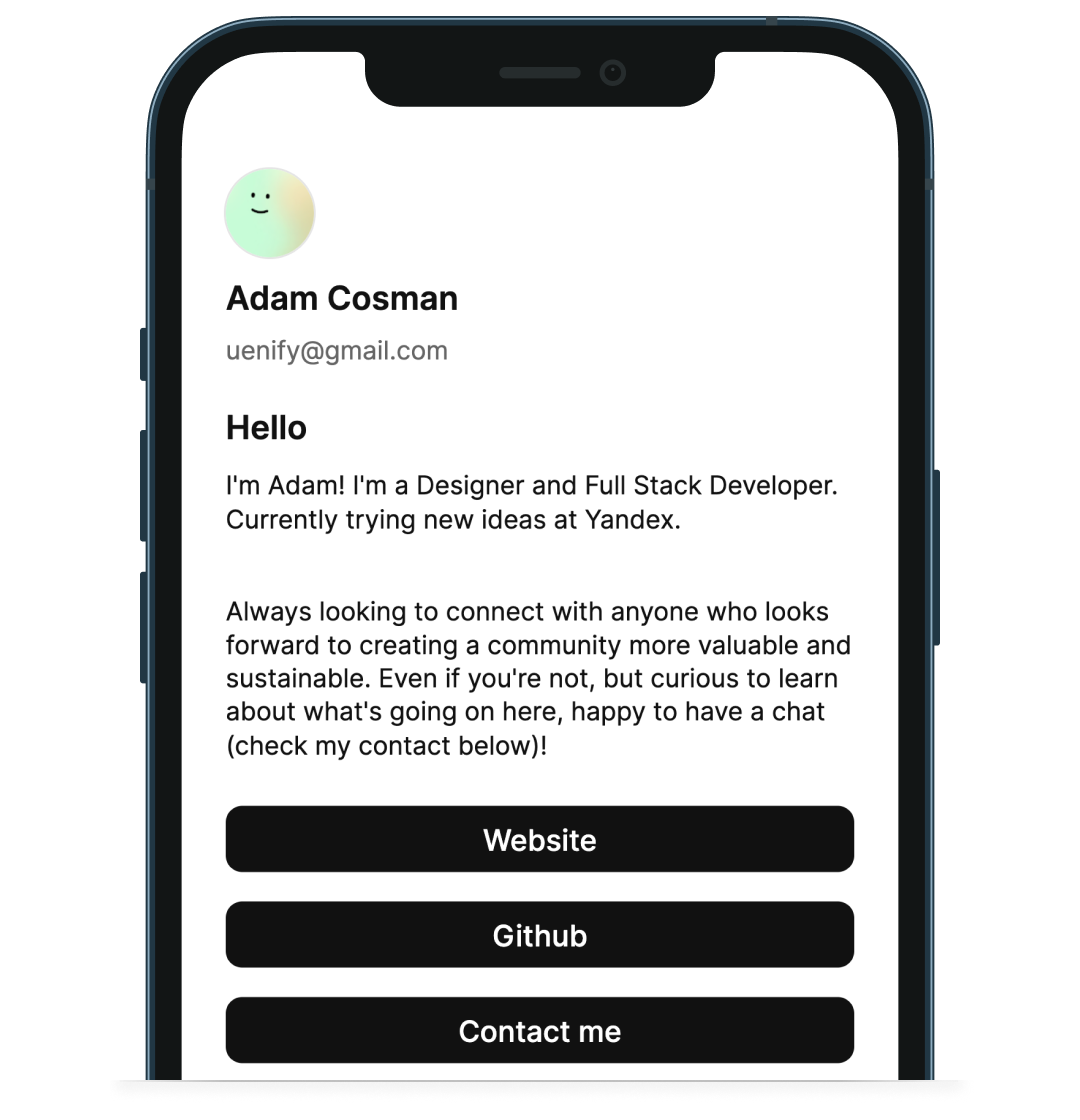
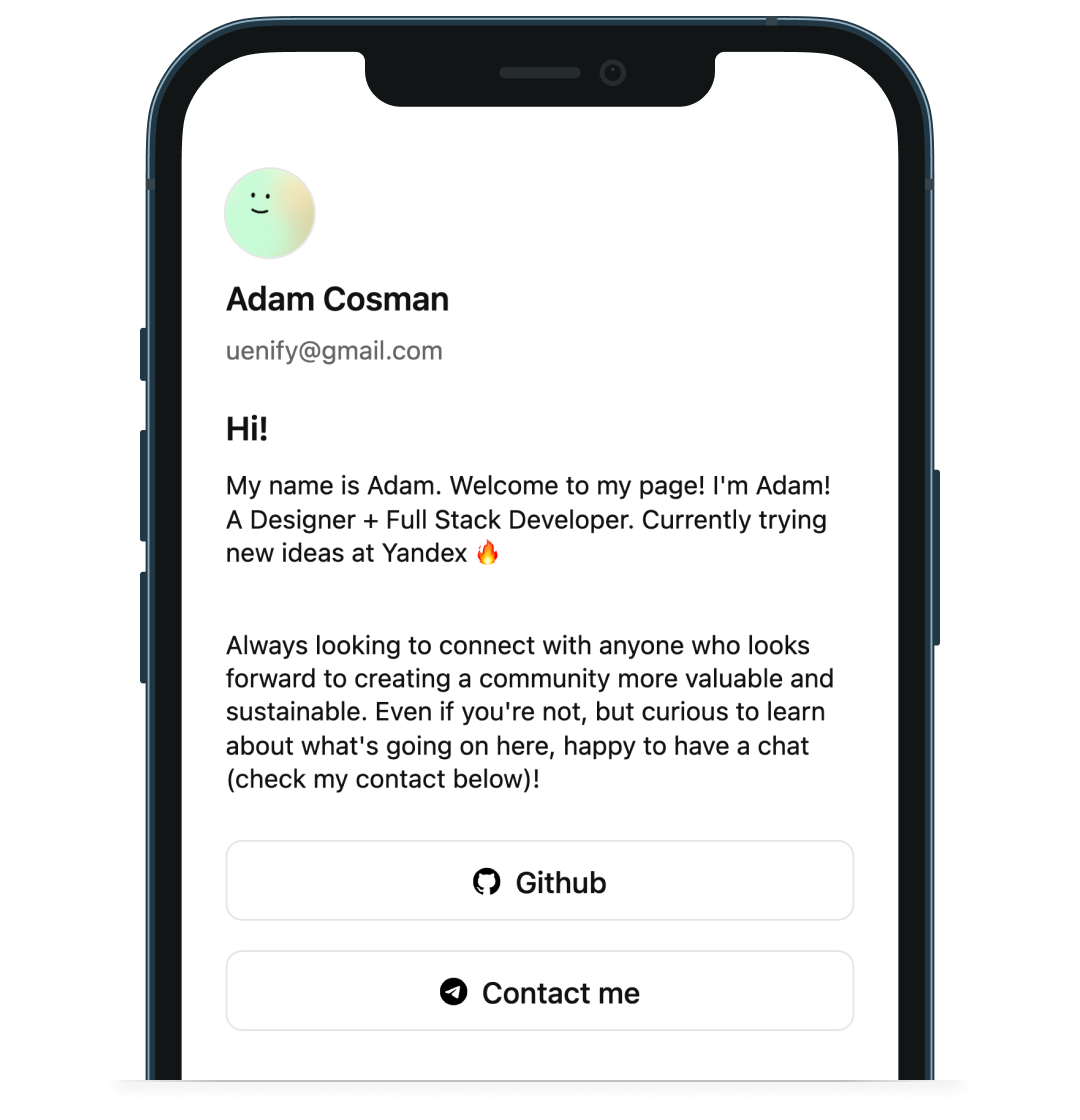
feat: new screenshow, 404 page, etc.

Changed region(s): [[0.1833, 0.5312, 0.7944, 0.9688], [0.2139, 0.375, 0.7639, 0.5], [0.2139, 0.25, 0.4278, 0.3438]]

diff --git a/src/pages/404.tsx b/src/pages/404.tsx
@@ -1,0 +1,29 @@
+import { NextPage } from 'next';
+import { Paragraph, Title } from '../components/Typography';
+import { AuthLayout } from '../layout/Auth';
+
+interface Props {
+    statusCode?: number;
+}
+
+const codeToError: Record<number, string> = {
+    404: 'Not Found',
+    500: 'Something went wrong',
+};
+
+const Error: NextPage<Props> = ({ statusCode = 404 }) => {
+    return (
+        <>
+            <AuthLayout>
+                <div style={{
+                    textAlign: 'center',
+                }}>
+                    {statusCode ? <Title>{statusCode}</Title> : null}
+                    <Paragraph>{codeToError[statusCode || 500]}</Paragraph>
+                </div>
+            </AuthLayout>
+        </>
+    );
+};
+
+export default Error;

diff --git a/src/pages/[slug].tsx b/src/pages/[slug].tsx
@@ -14,8 +14,8 @@ interface Props {
     page: PageWithUser;
 }
 
-const UserPage: NextPage<Props> = ({ page }) => {
-    if (!page) {
+const UserPage: NextPage<Props> = (props) => {
+    if (!props.page) {
         return (
             <PageLayout>
                 <Loader />
@@ -23,7 +23,7 @@ const UserPage: NextPage<Props> = ({ page }) => {
         );
     }
 
-    const { user, blocks } = page;
+    const { user, blocks } = props.page;
 
     return (
         <PageLayout>

diff --git a/src/layout/Page/Page.module.scss b/src/layout/Page/Page.module.scss
@@ -1,5 +1,5 @@
 .root {
-    max-width: 720px;
+    max-width: 640px;
     min-height: 100%;
     margin: auto;
     padding: 24px;
